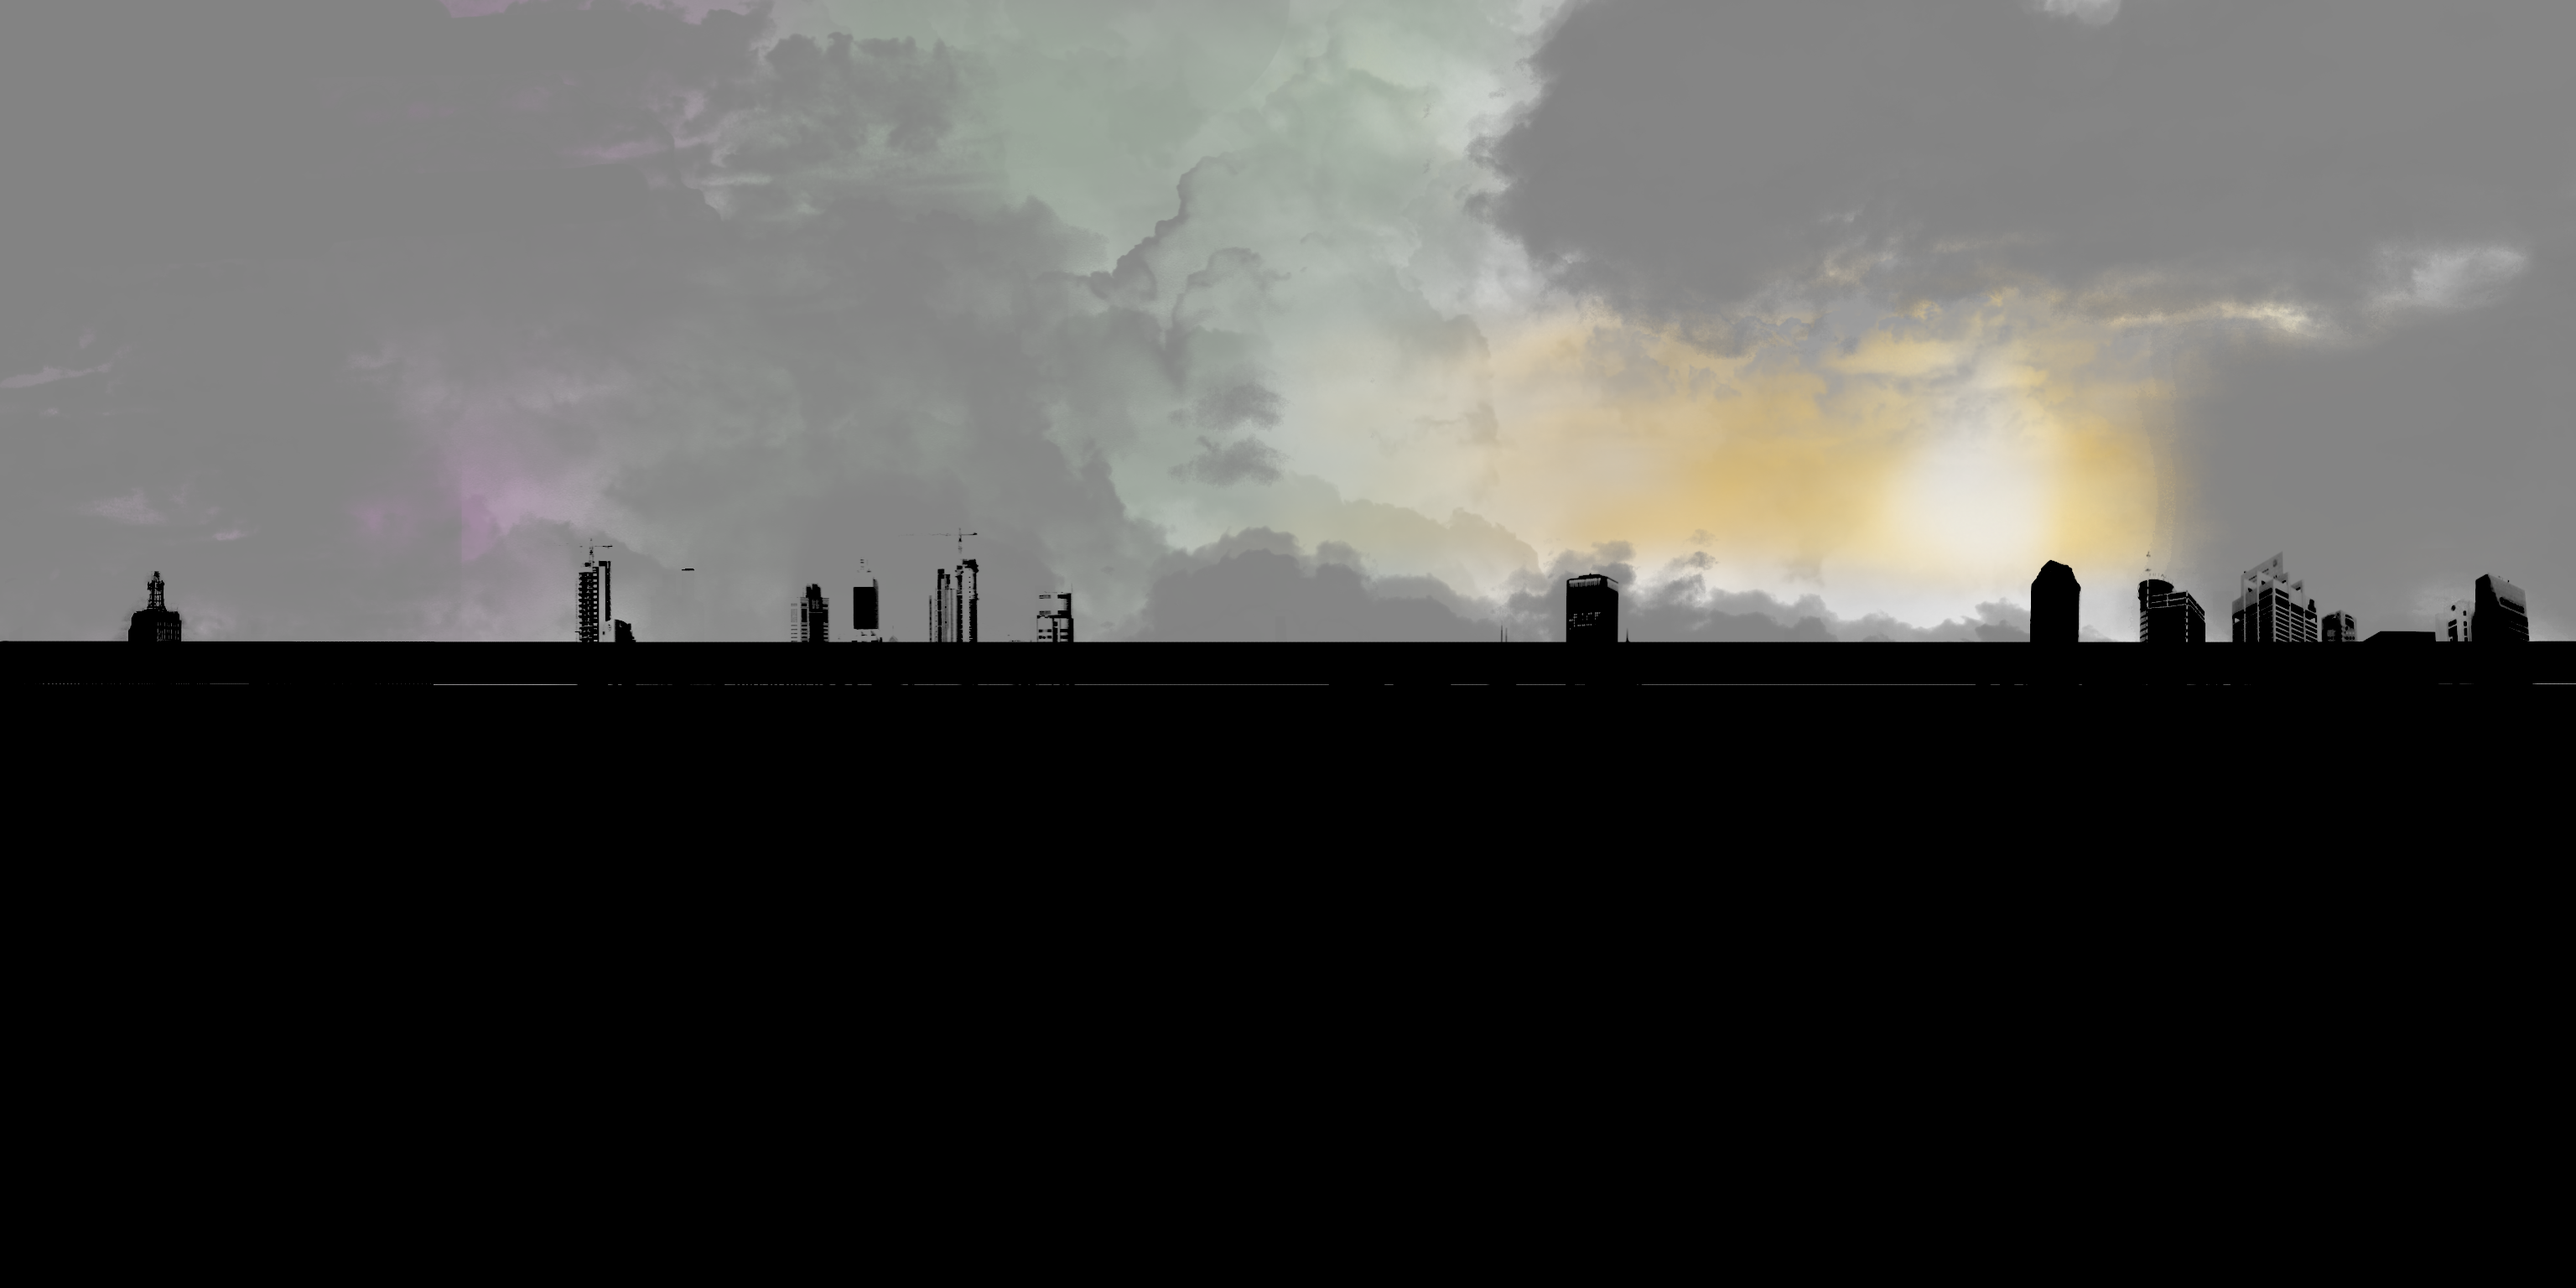
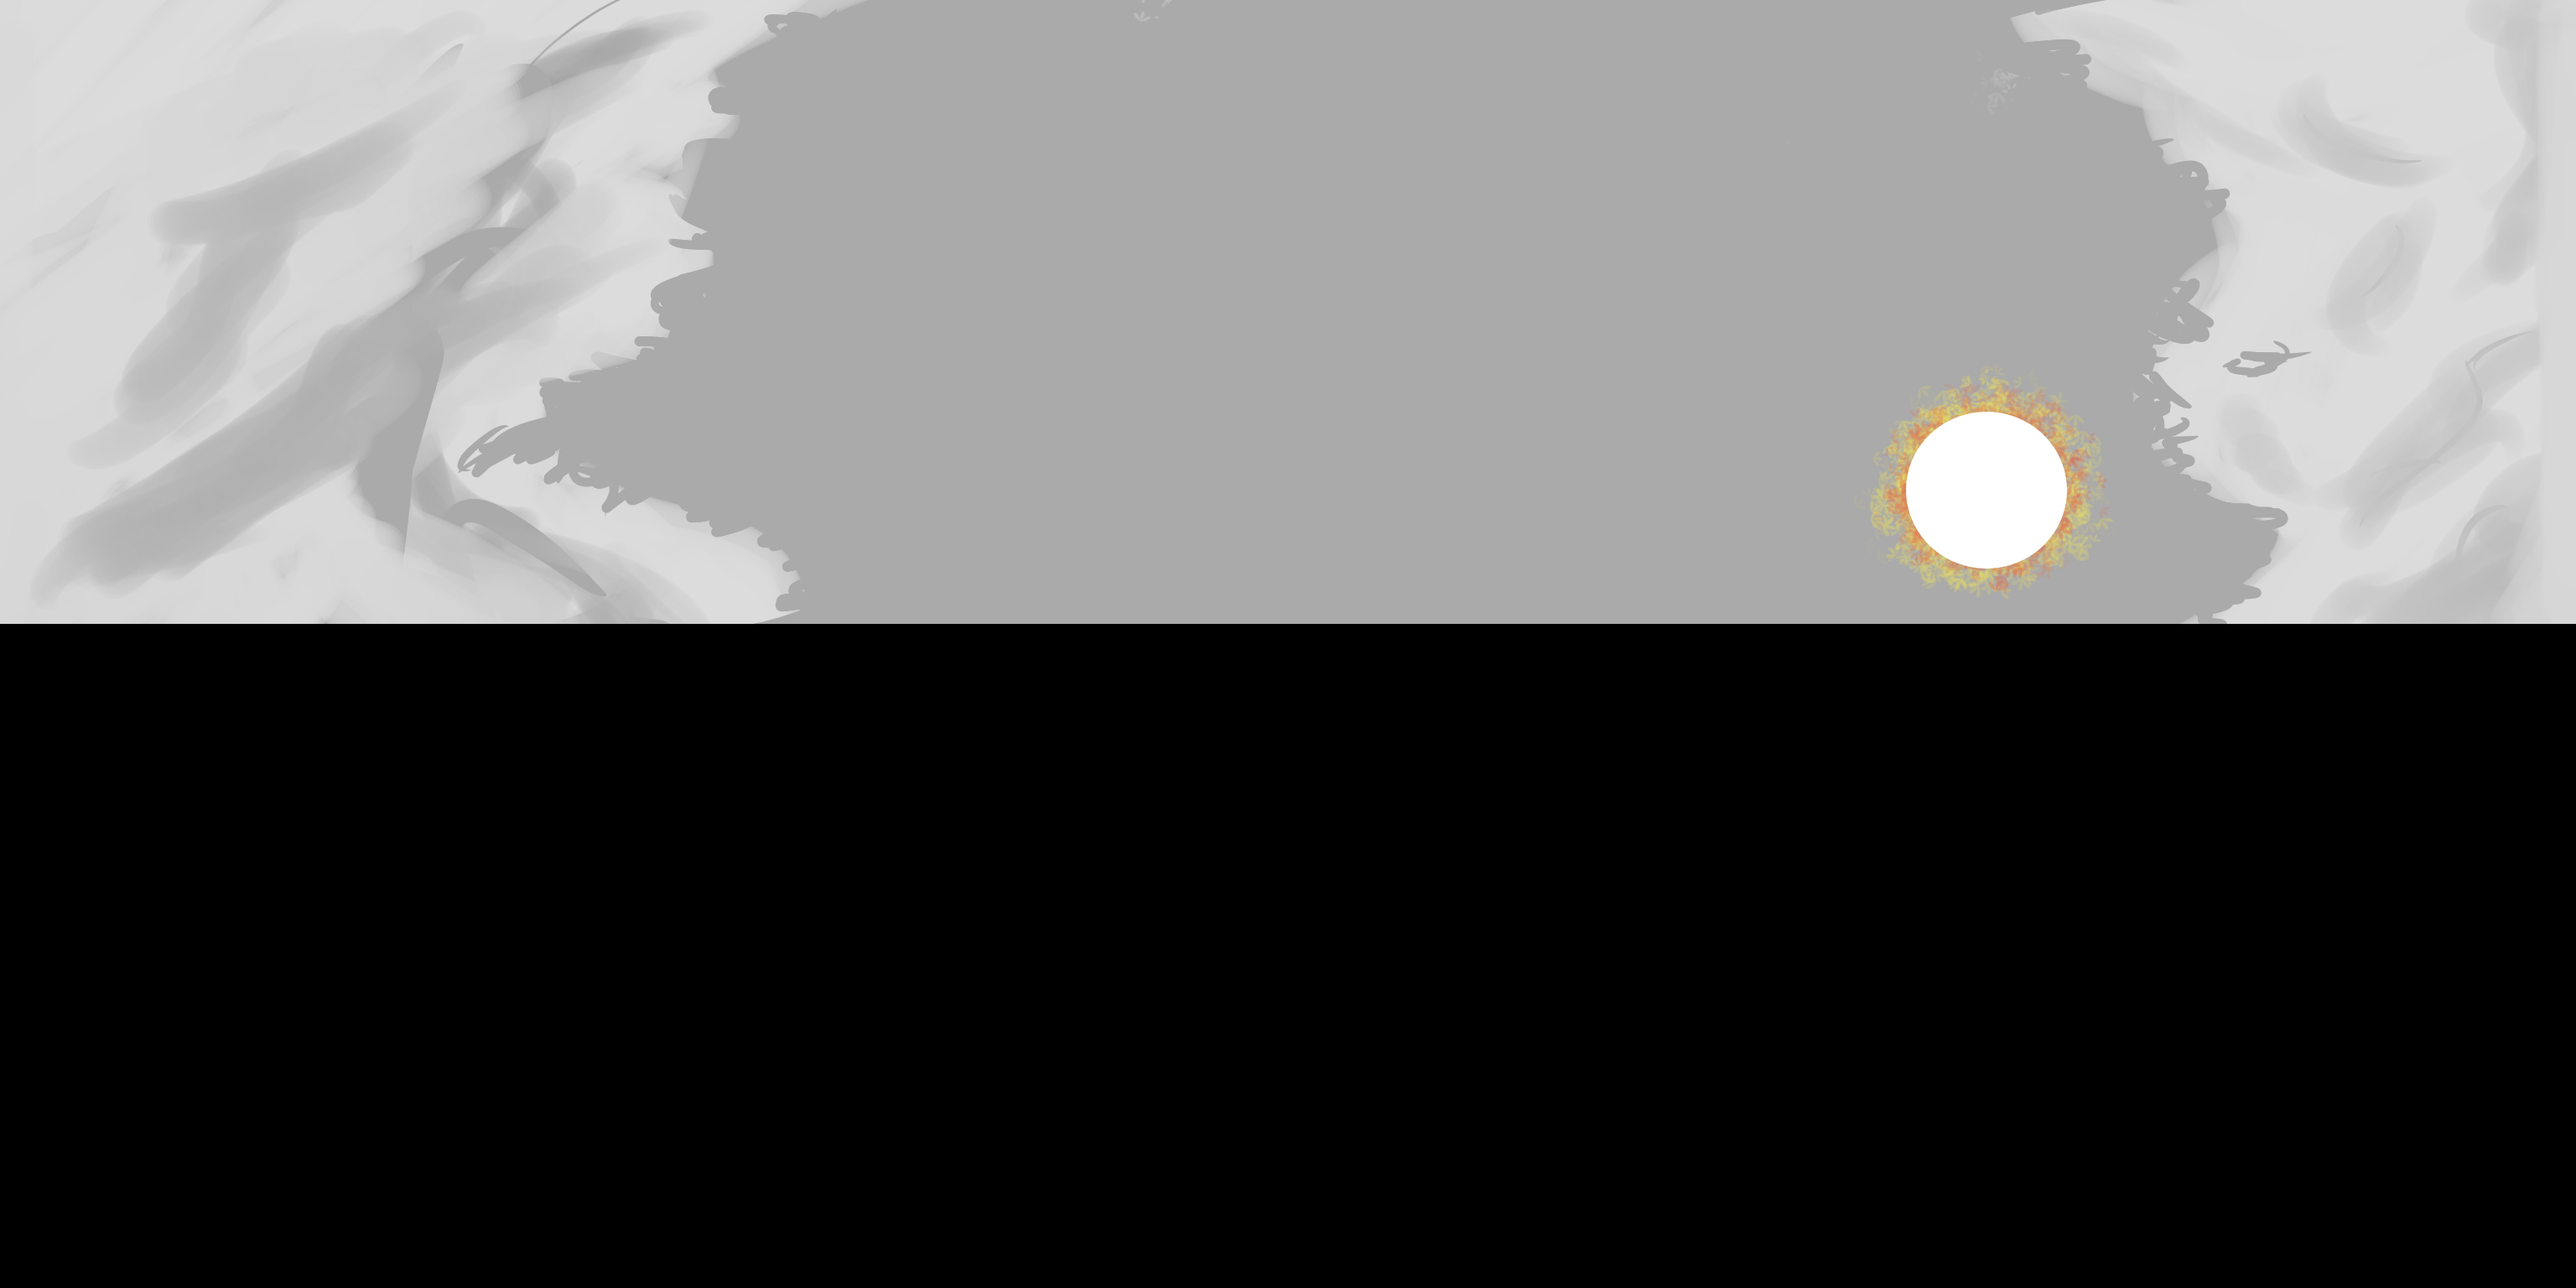
天球の画像を差し替えた

diff --git a/GameScene/GameScene.cpp b/GameScene/GameScene.cpp
@@ -144,8 +144,8 @@ void GameScene::Update() {
 		char yPos[256];
 		sprintf_s(xPos, "Xpoint : %f, YPoint : %f, ZPoint : %f", player->GetPlayerPos().x, player->GetPlayerPos().y, player->GetPlayerPos().z);
 		sprintf_s(yPos, "Xpoint : %d, YPoint : %d", MouseInput::GetIns()->GetMousePoint().x, MouseInput::GetIns()->GetMousePoint().y);
-		debugText.Print(xPos, 100, 300, 2.0f);
-		debugText.Print(yPos, 100, 400, 2.0f);
+		debugText.Print(xPos, 0, 0, 2.0f);
+		debugText.Print(yPos, 0, 50, 2.0f);
 
 		for (int i = 0; i < 3; i++) {
 			if (Collision::GetIns()->SphereCollision(player->GetShotObject(), enemy->GetEnemy(i))) {
